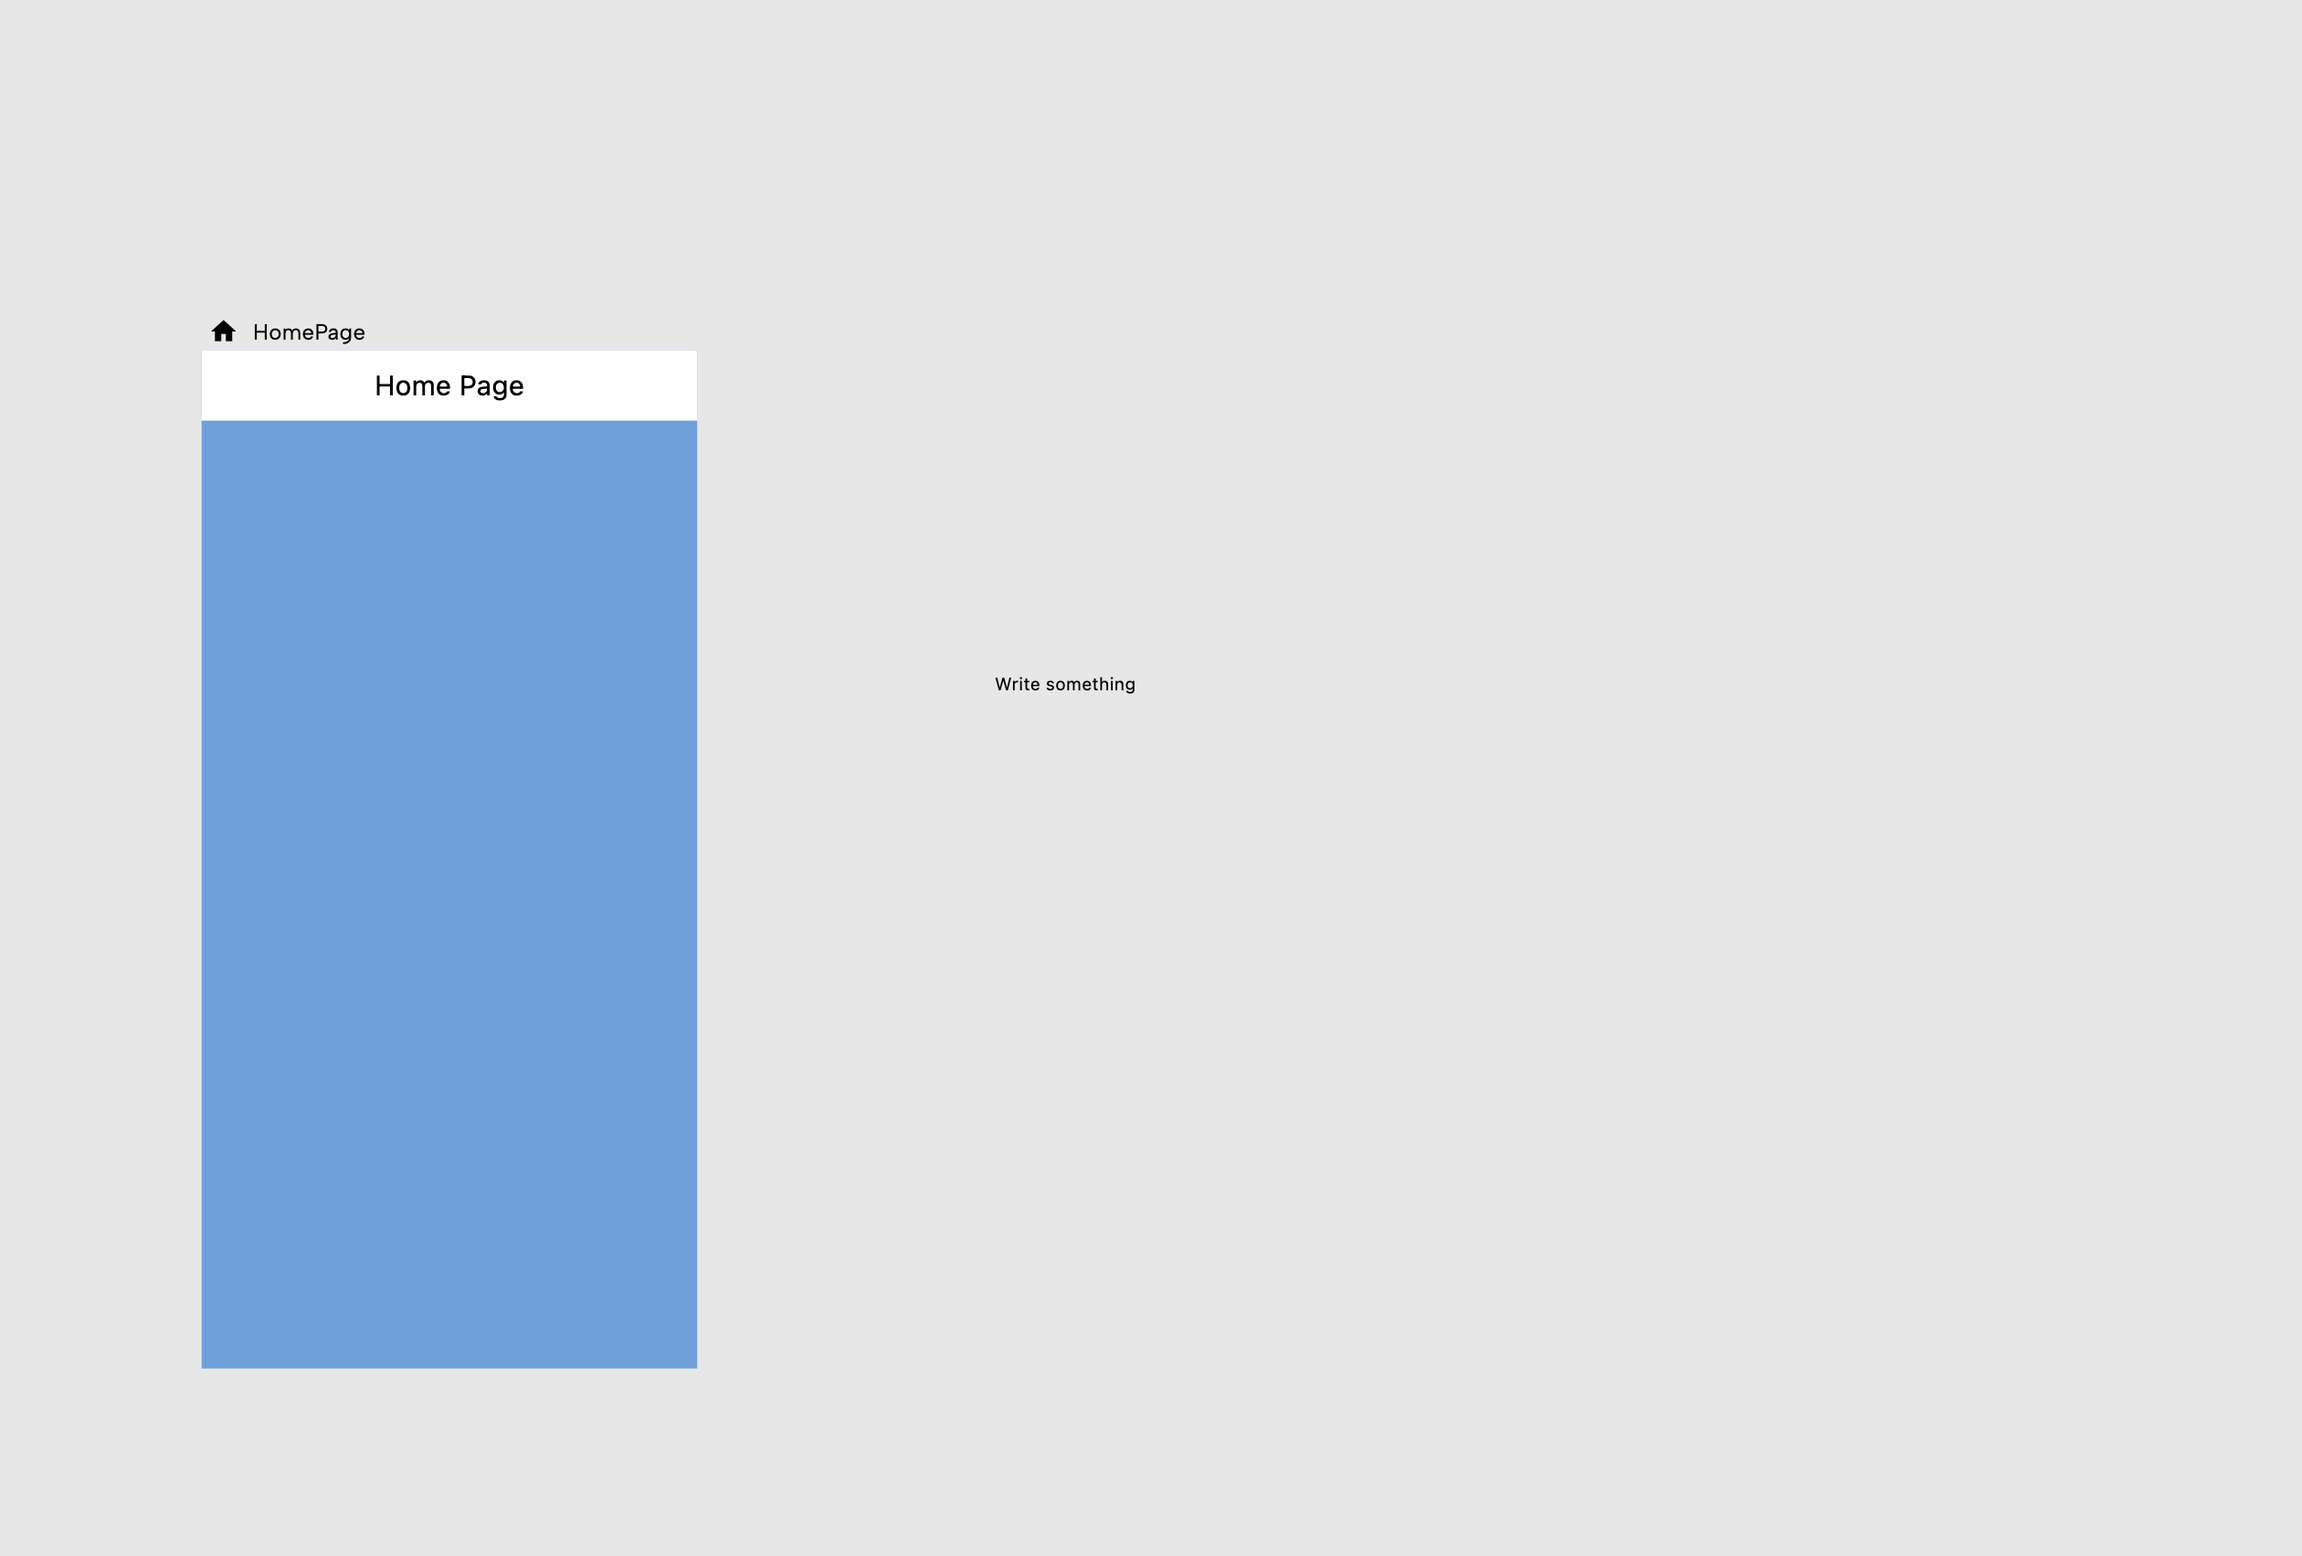
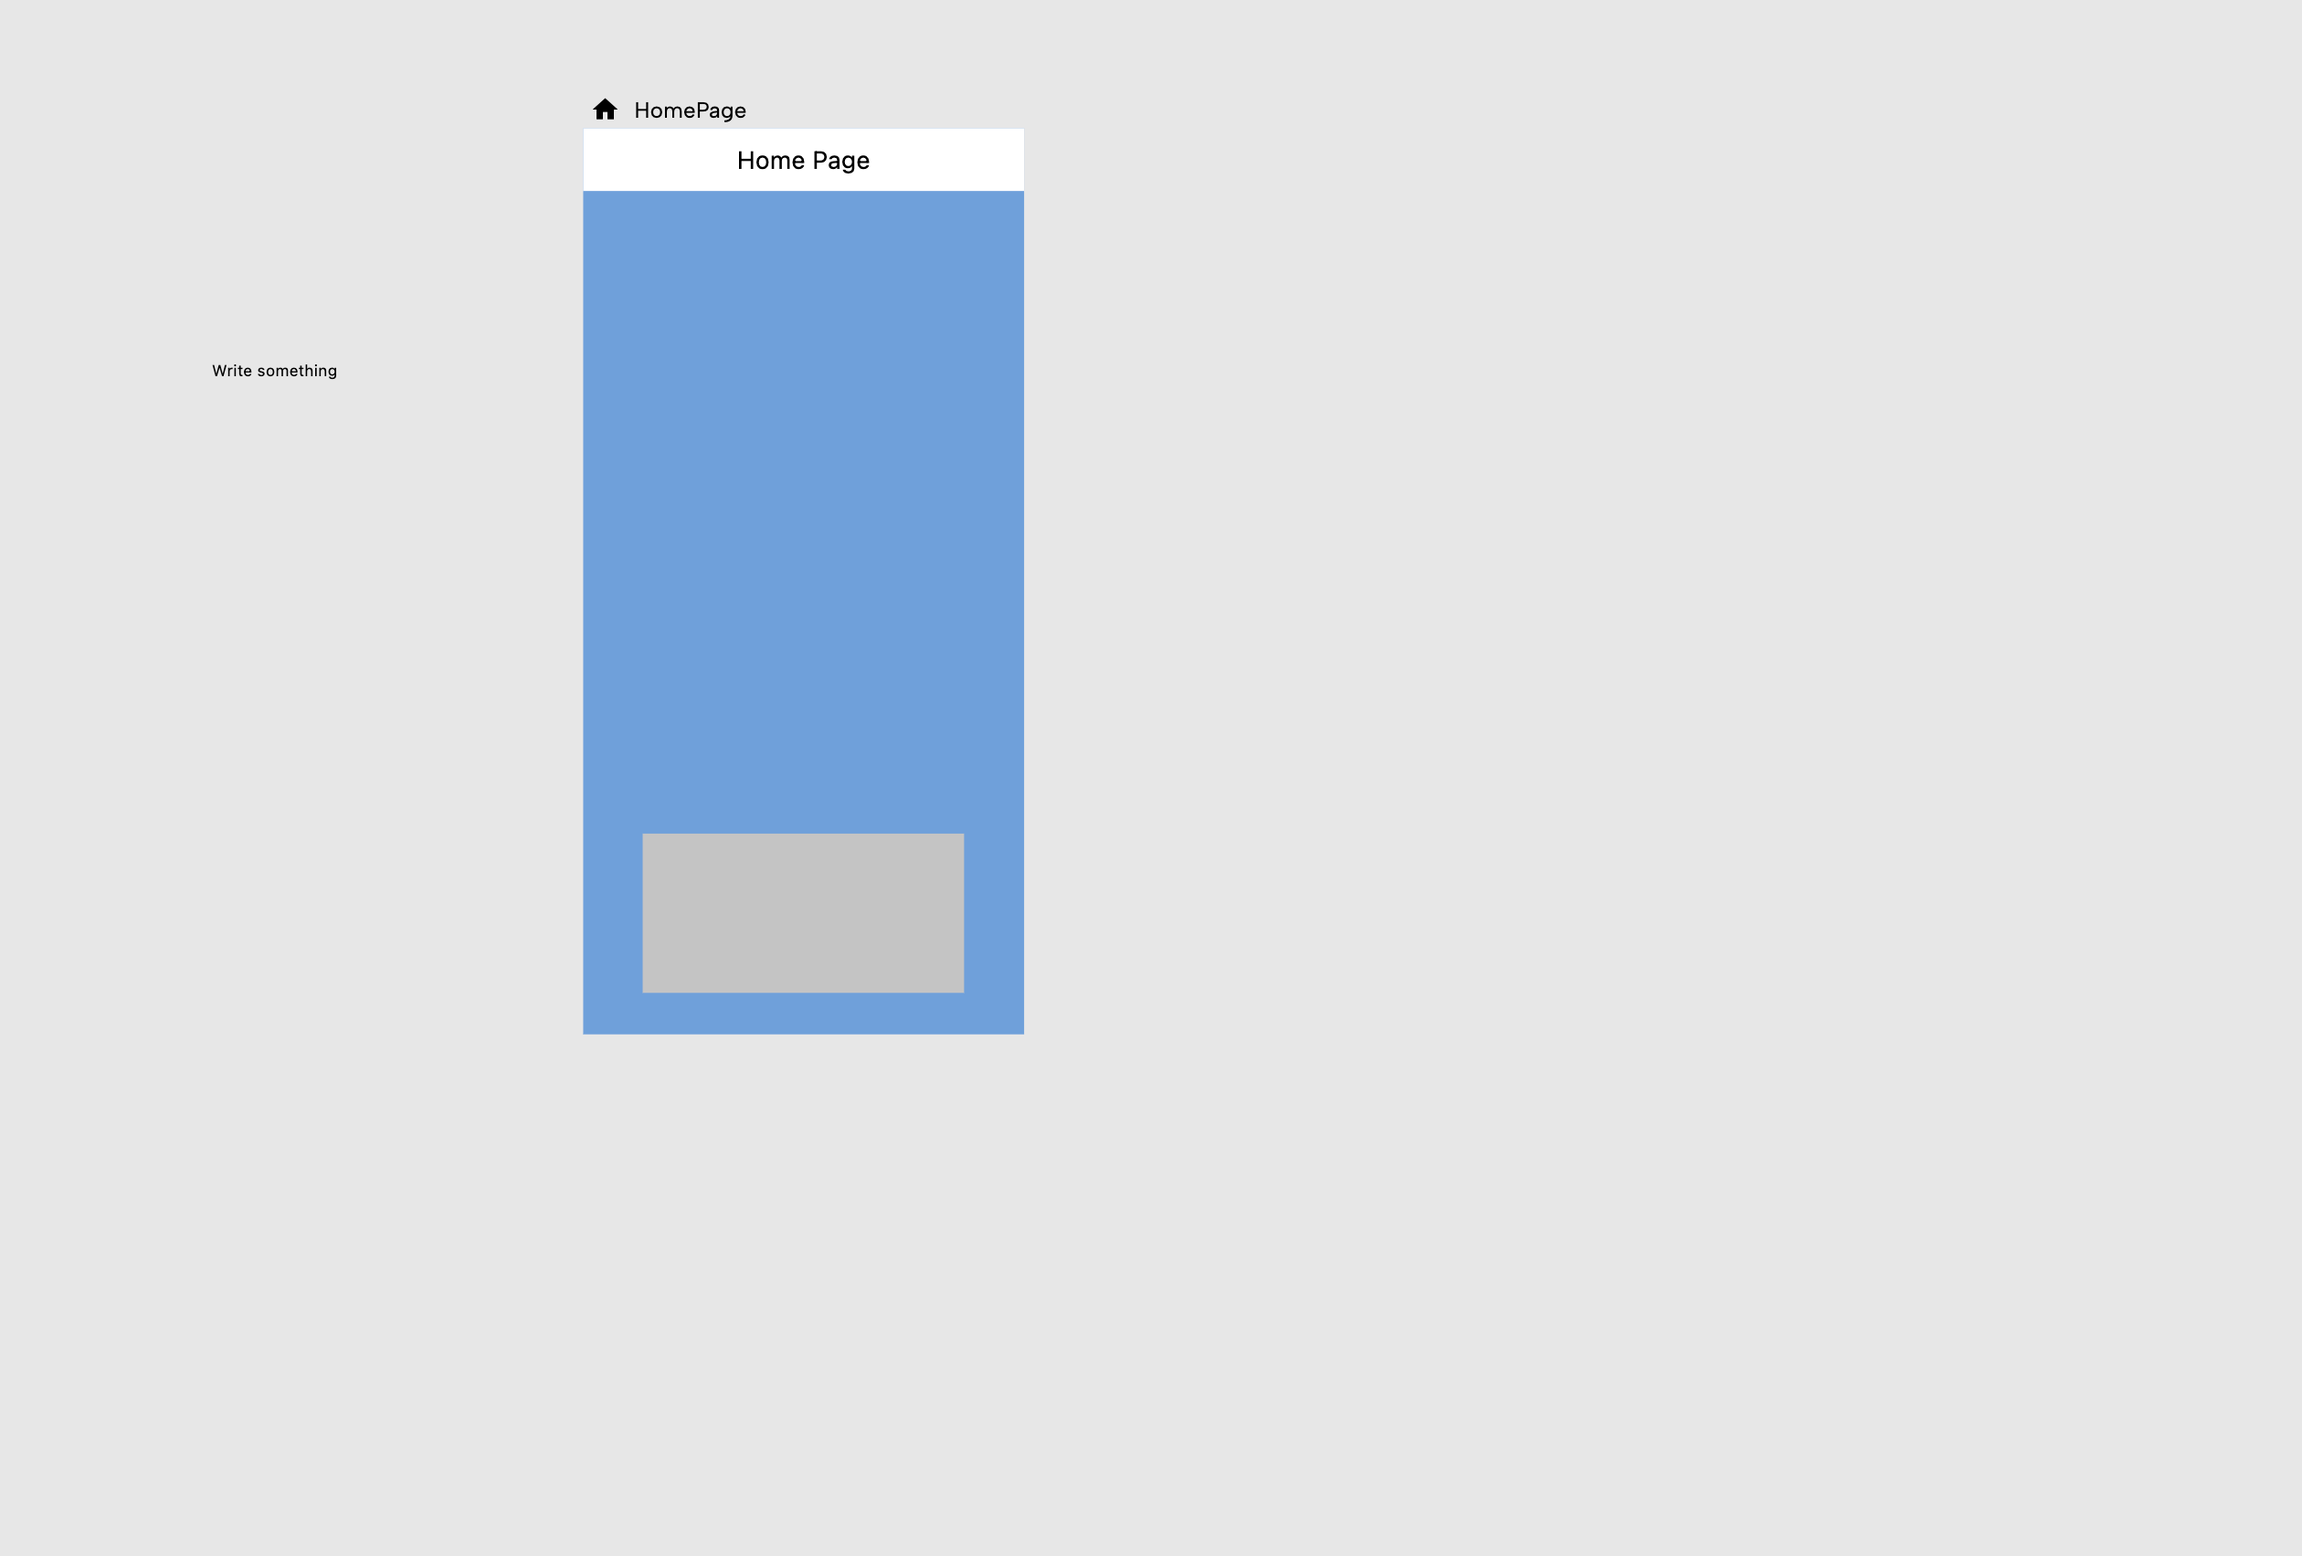
modifying home page

Changed region(s): [[0.0619, 0.0933, 0.4952, 0.902], [0.2476, 0.0622, 0.3095, 0.0933]]

diff --git a/lib/pages/home_page.dart b/lib/pages/home_page.dart
@@ -30,7 +30,7 @@ class _HomePageState extends State<HomePage> {
           alignment: const Alignment(0.0, 0.0),
           children: [
             Positioned(
-              top: 29.0,
+              top: 86.0,
               left: 42.5,
               width: 308.0,
               height: 447.0,
@@ -49,6 +49,17 @@ class _HomePageState extends State<HomePage> {
                           ),
                         ))
                     .toList(),
+              ),
+            ),
+            Positioned(
+              top: 573.0,
+              left: 53.0,
+              width: 286.5,
+              height: 142.0,
+              child: Container(
+                decoration: BoxDecoration(
+                    color: Color(0xffc4c4c4),
+                    borderRadius: BorderRadius.circular(0.0)),
               ),
             )
           ],
